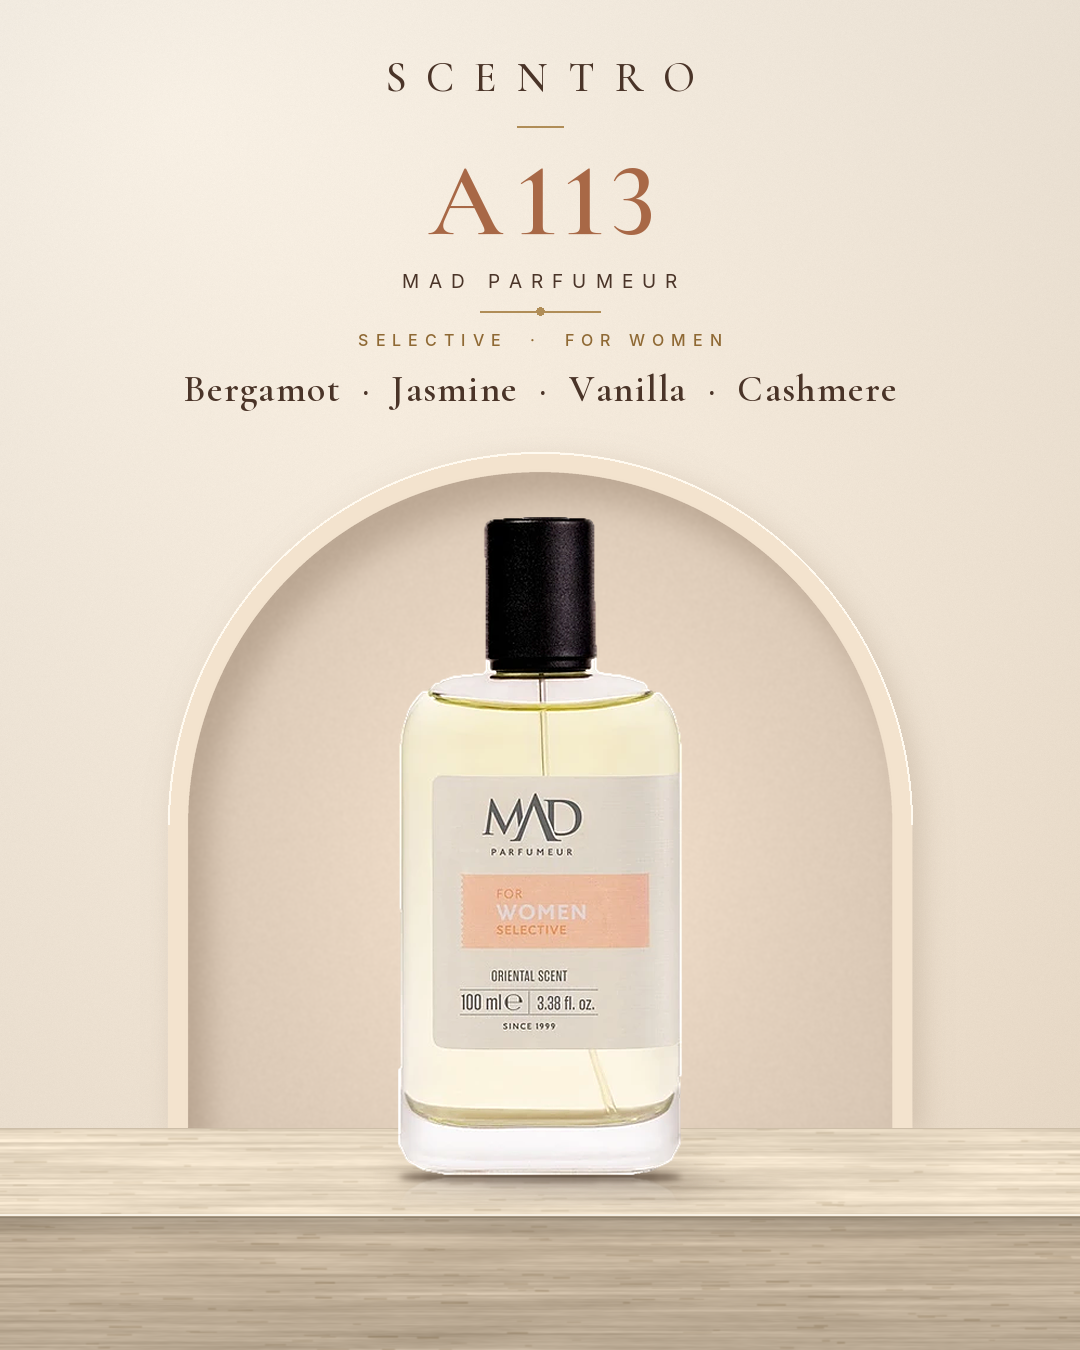
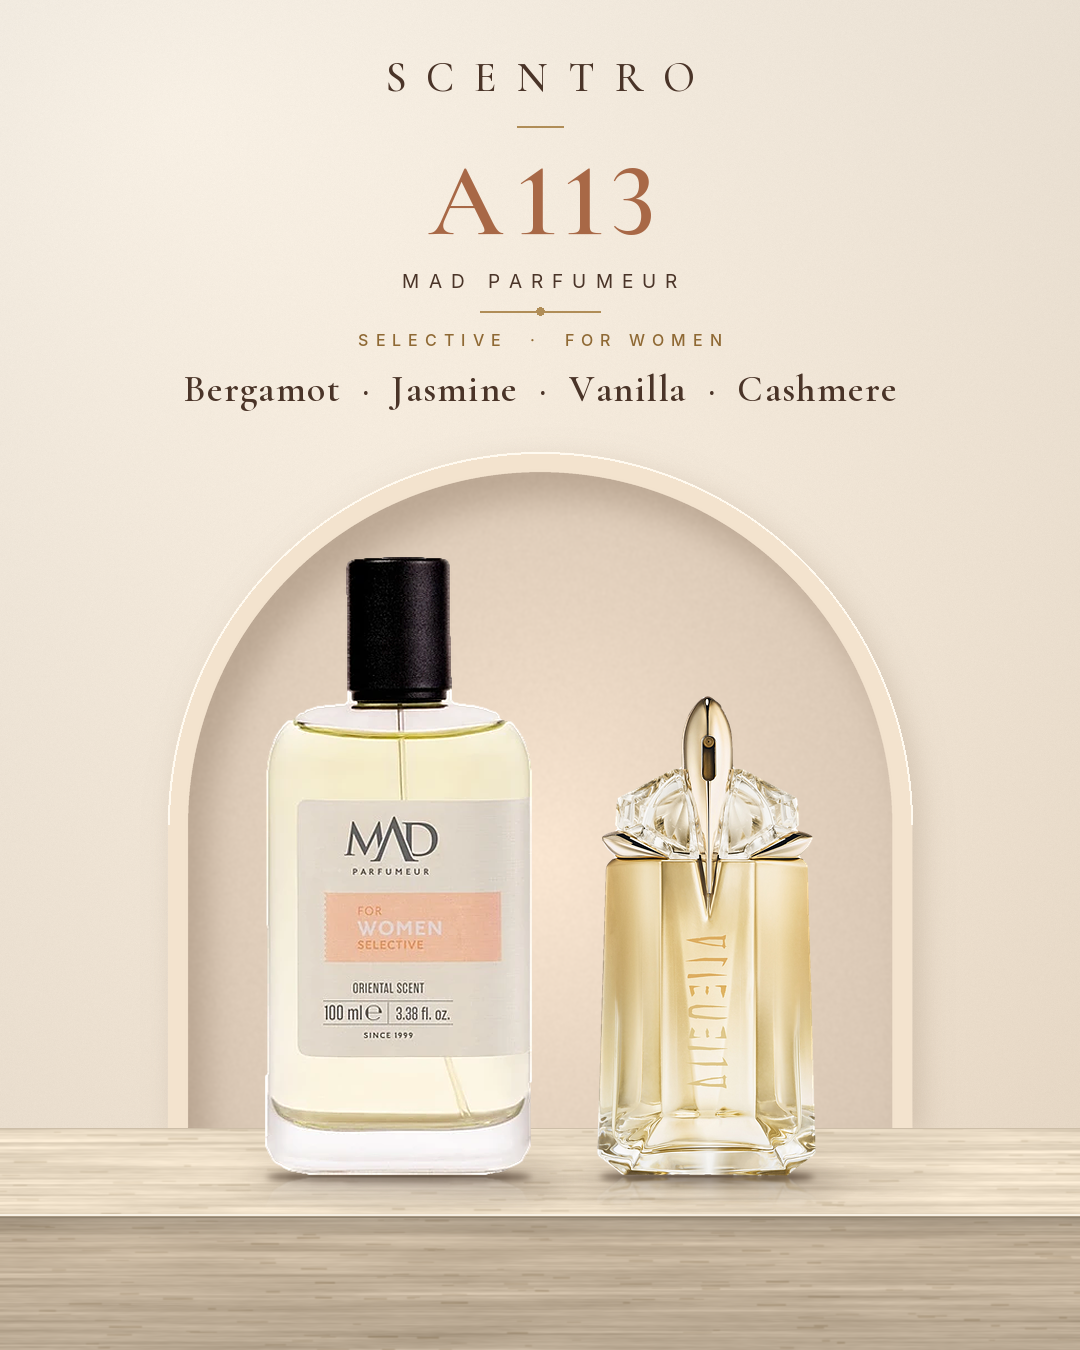
A113 sample: add inspired-by original (Mugler Alien Goddess) beside MAD bottle
Claude-Session: https://claude.ai/code/session_01UApyk7Kdwc7MEVpfJtnJsr

Changed region(s): [[0.2444, 0.3733, 0.7639, 0.9022]]

diff --git a/scentro/build_women.py b/scentro/build_women.py
@@ -6,7 +6,8 @@ import build_slide as B
 
 W_ITEMS = {
     'A113': dict(cut='collection3/assets/cutouts/a113.png', title_rgb=(168, 104, 70), bg_a=(247, 240, 229), bg_b=(237, 222, 203),
-                 niche_rgb=(233, 214, 194), stone=(3, 0, -3), notes='Bergamot  ·  Jasmine  ·  Vanilla  ·  Cashmere', hero_h=660),
+                 niche_rgb=(233, 214, 194), stone=(3, 0, -3), notes='Bergamot  ·  Jasmine  ·  Vanilla  ·  Cashmere', hero_h=620,
+                 orig='collection3/assets/cutouts/orig_alien_goddess.png', orig_h=480),
 }
 
 def build(code):
@@ -24,7 +25,11 @@ def build(code):
     nf, _ = B.fit_width(d, w['notes'], B.CORM, 'SemiBold', 38, 760, track_px=1.5)
     B.tracked(d, 540, 388, w['notes'], nf, brown, 1.5)
     b = B.load_clean(w['cut'], w['hero_h'])
-    B.stage_bottle(img, b, B.ARCH_CX, B.BASE_Y)
+    if w.get('orig'):
+        o = B.load_clean(w['orig'], w['orig_h']); left = B.ARCH_CX - (b.width + B.GAP + o.width) / 2
+        B.stage_bottle(img, b, left + b.width / 2, B.BASE_Y); B.stage_bottle(img, o, left + b.width + B.GAP + o.width / 2, B.BASE_Y)
+    else:
+        B.stage_bottle(img, b, B.ARCH_CX, B.BASE_Y)
     os.makedirs('collection3/output', exist_ok=True); out = f'collection3/output/{code.lower()}.png'
     img.convert('RGB').save(out, optimize=True); print(out)
 
